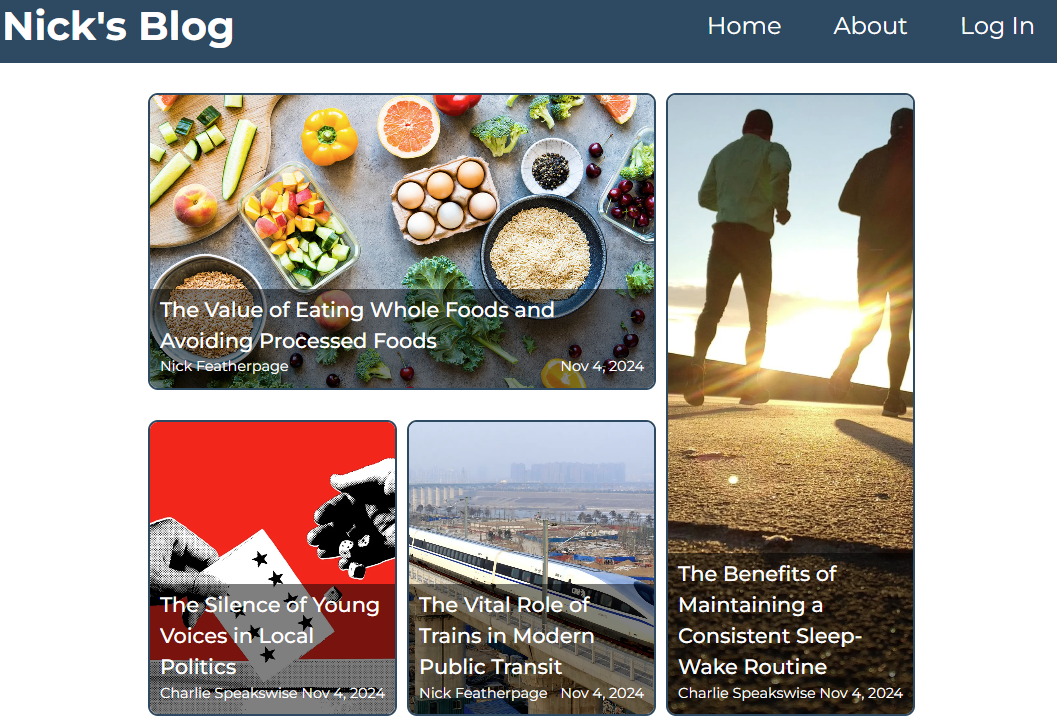
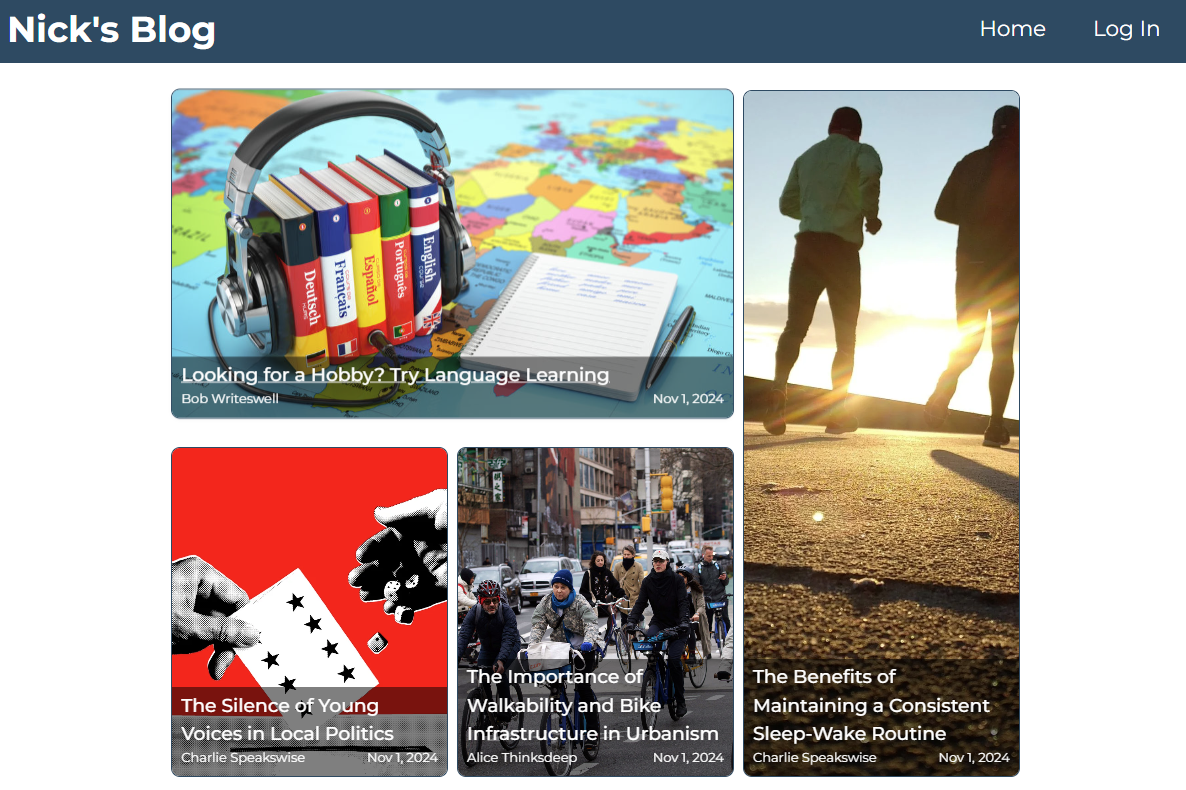
remove about page

diff --git a/frontend/src/App.jsx b/frontend/src/App.jsx
@@ -7,7 +7,6 @@ import {
 import './styles/index.css';
 import SignUp from './pages/SignUp/SignUp.jsx';
 import Home from './pages/Home/Home.jsx';
-import About from './pages/About/About';
 import LogIn from './pages/LogIn/LogIn.jsx';
 import Layout from './components/Layout/Layout.jsx';
 import BlogPost from './pages/BlogPost/BlogPost.jsx';
@@ -25,7 +24,6 @@ const router = createBrowserRouter([
         },
       },
       { path: 'home', element: <Home /> },
-      { path: 'about', element: <About /> },
       { path: 'login', element: <LogIn /> },
       { path: 'signup', element: <SignUp /> },
       {

diff --git a/frontend/src/components/Header/Header.jsx b/frontend/src/components/Header/Header.jsx
@@ -47,9 +47,6 @@ const Header = ({ user, setUser }) => {
             <li>
               <a href="/home">Home</a>
             </li>
-            <li>
-              <a href="/about">About</a>
-            </li>
             {user ? (
               <li className={styles.userMenu} ref={dropdownRef}>
                 <button onClick={toggleDropdown} className={styles.userButton}>
